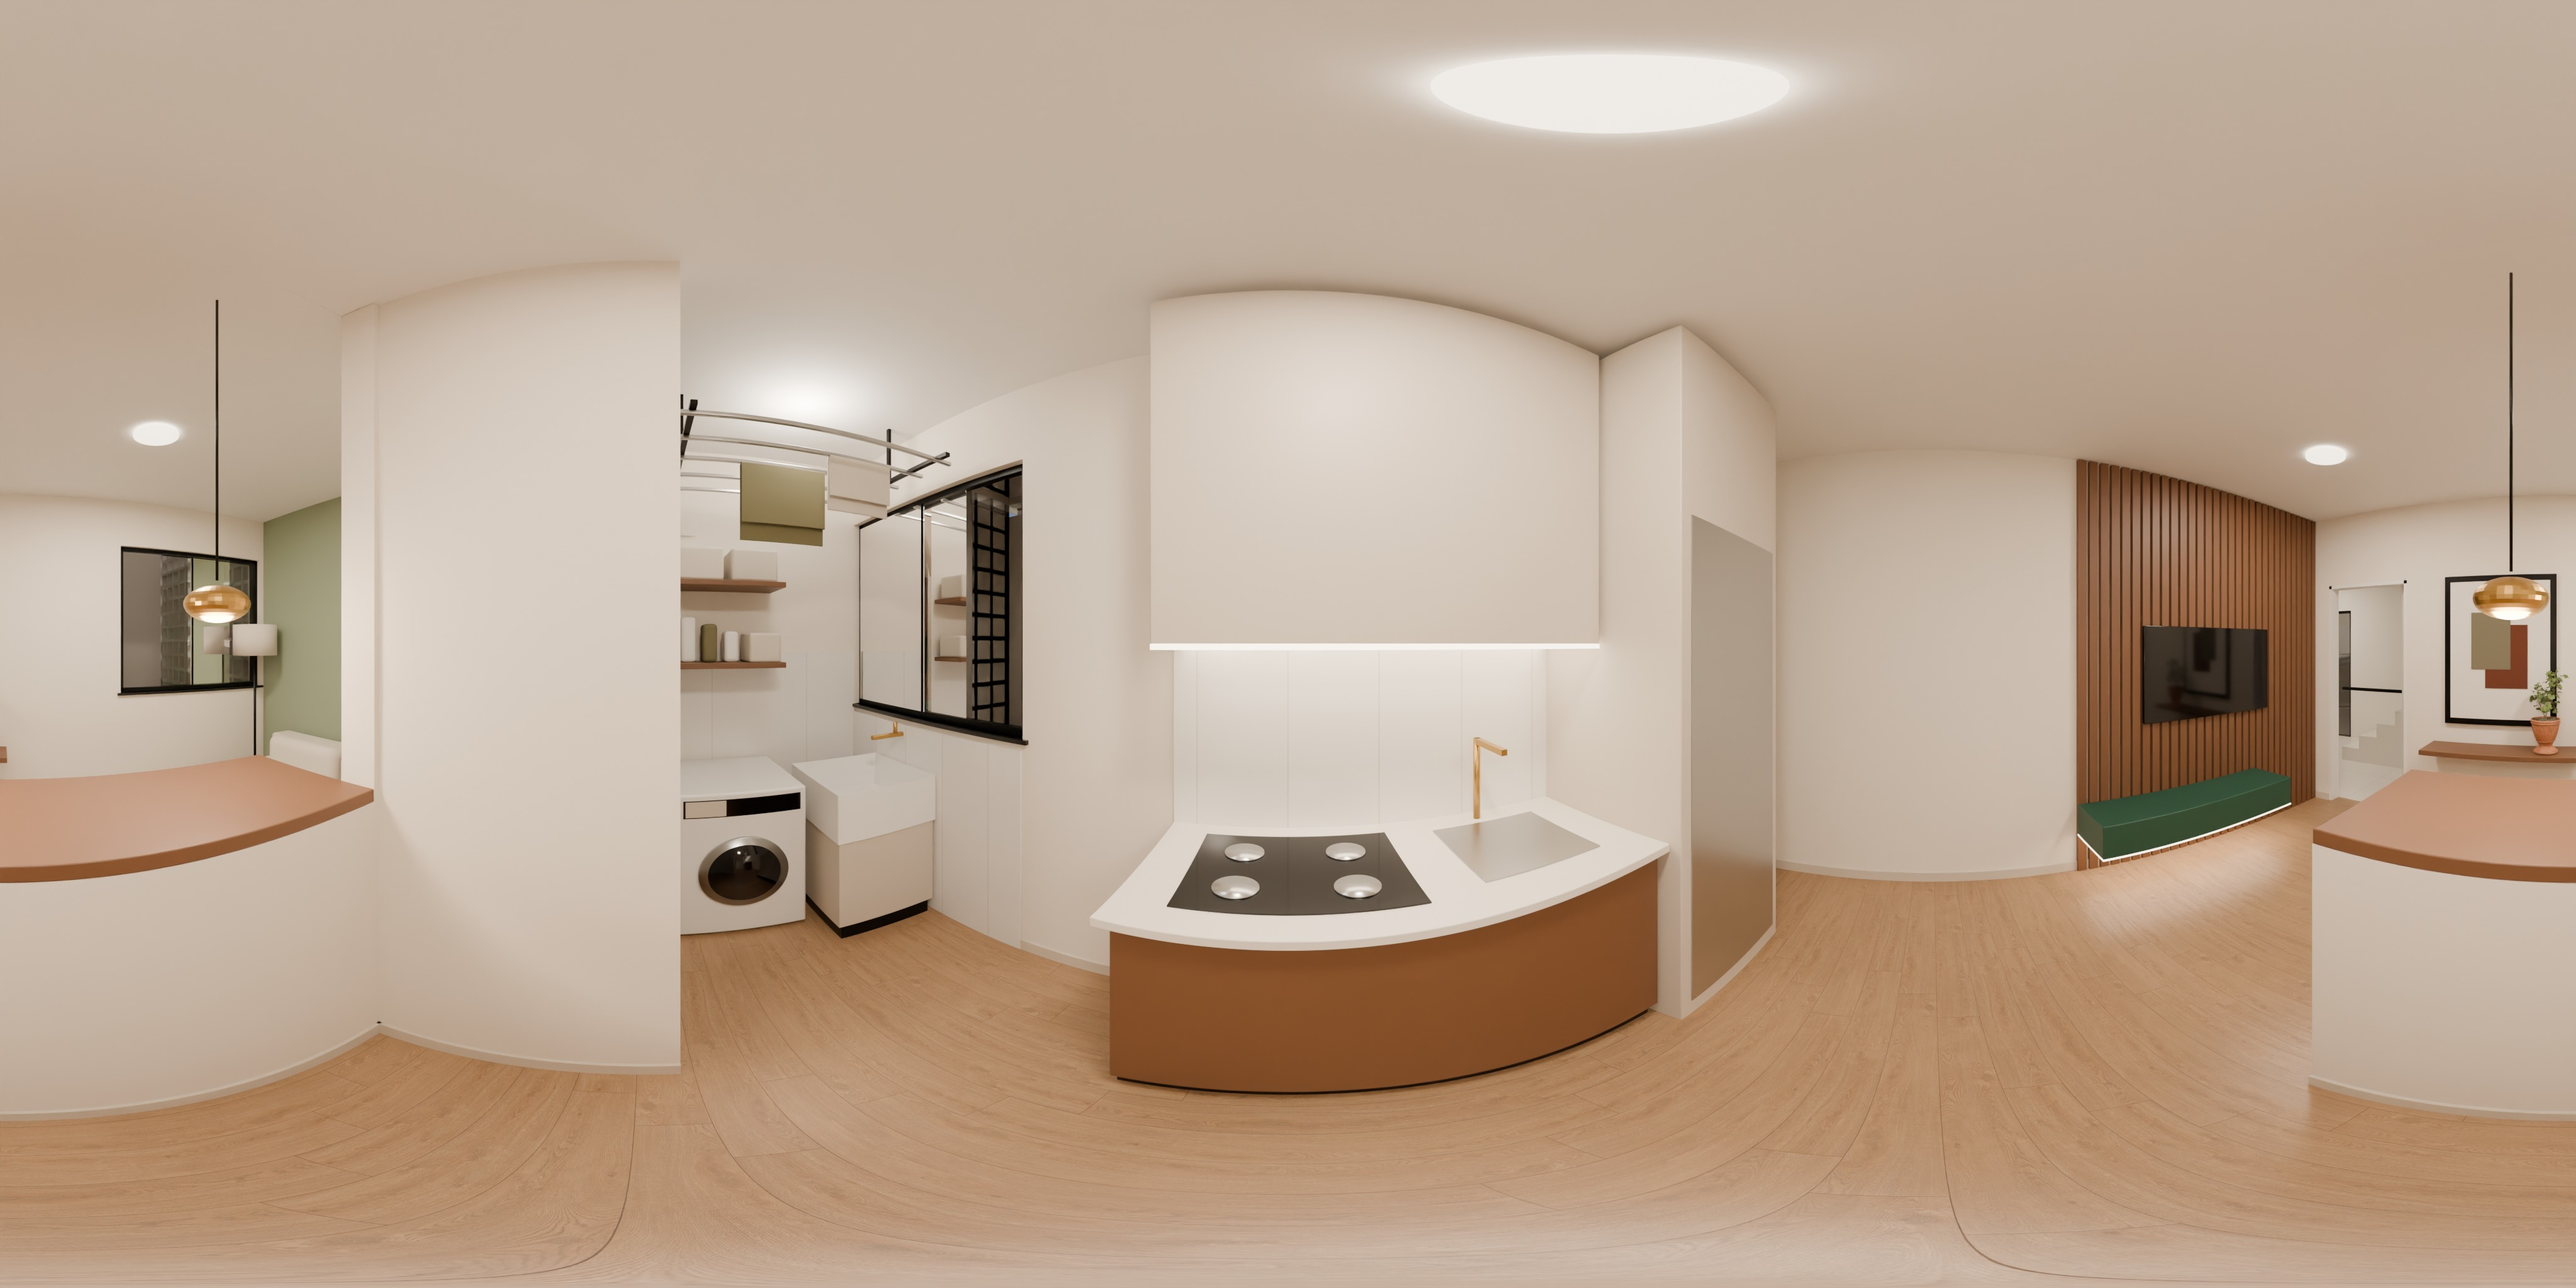
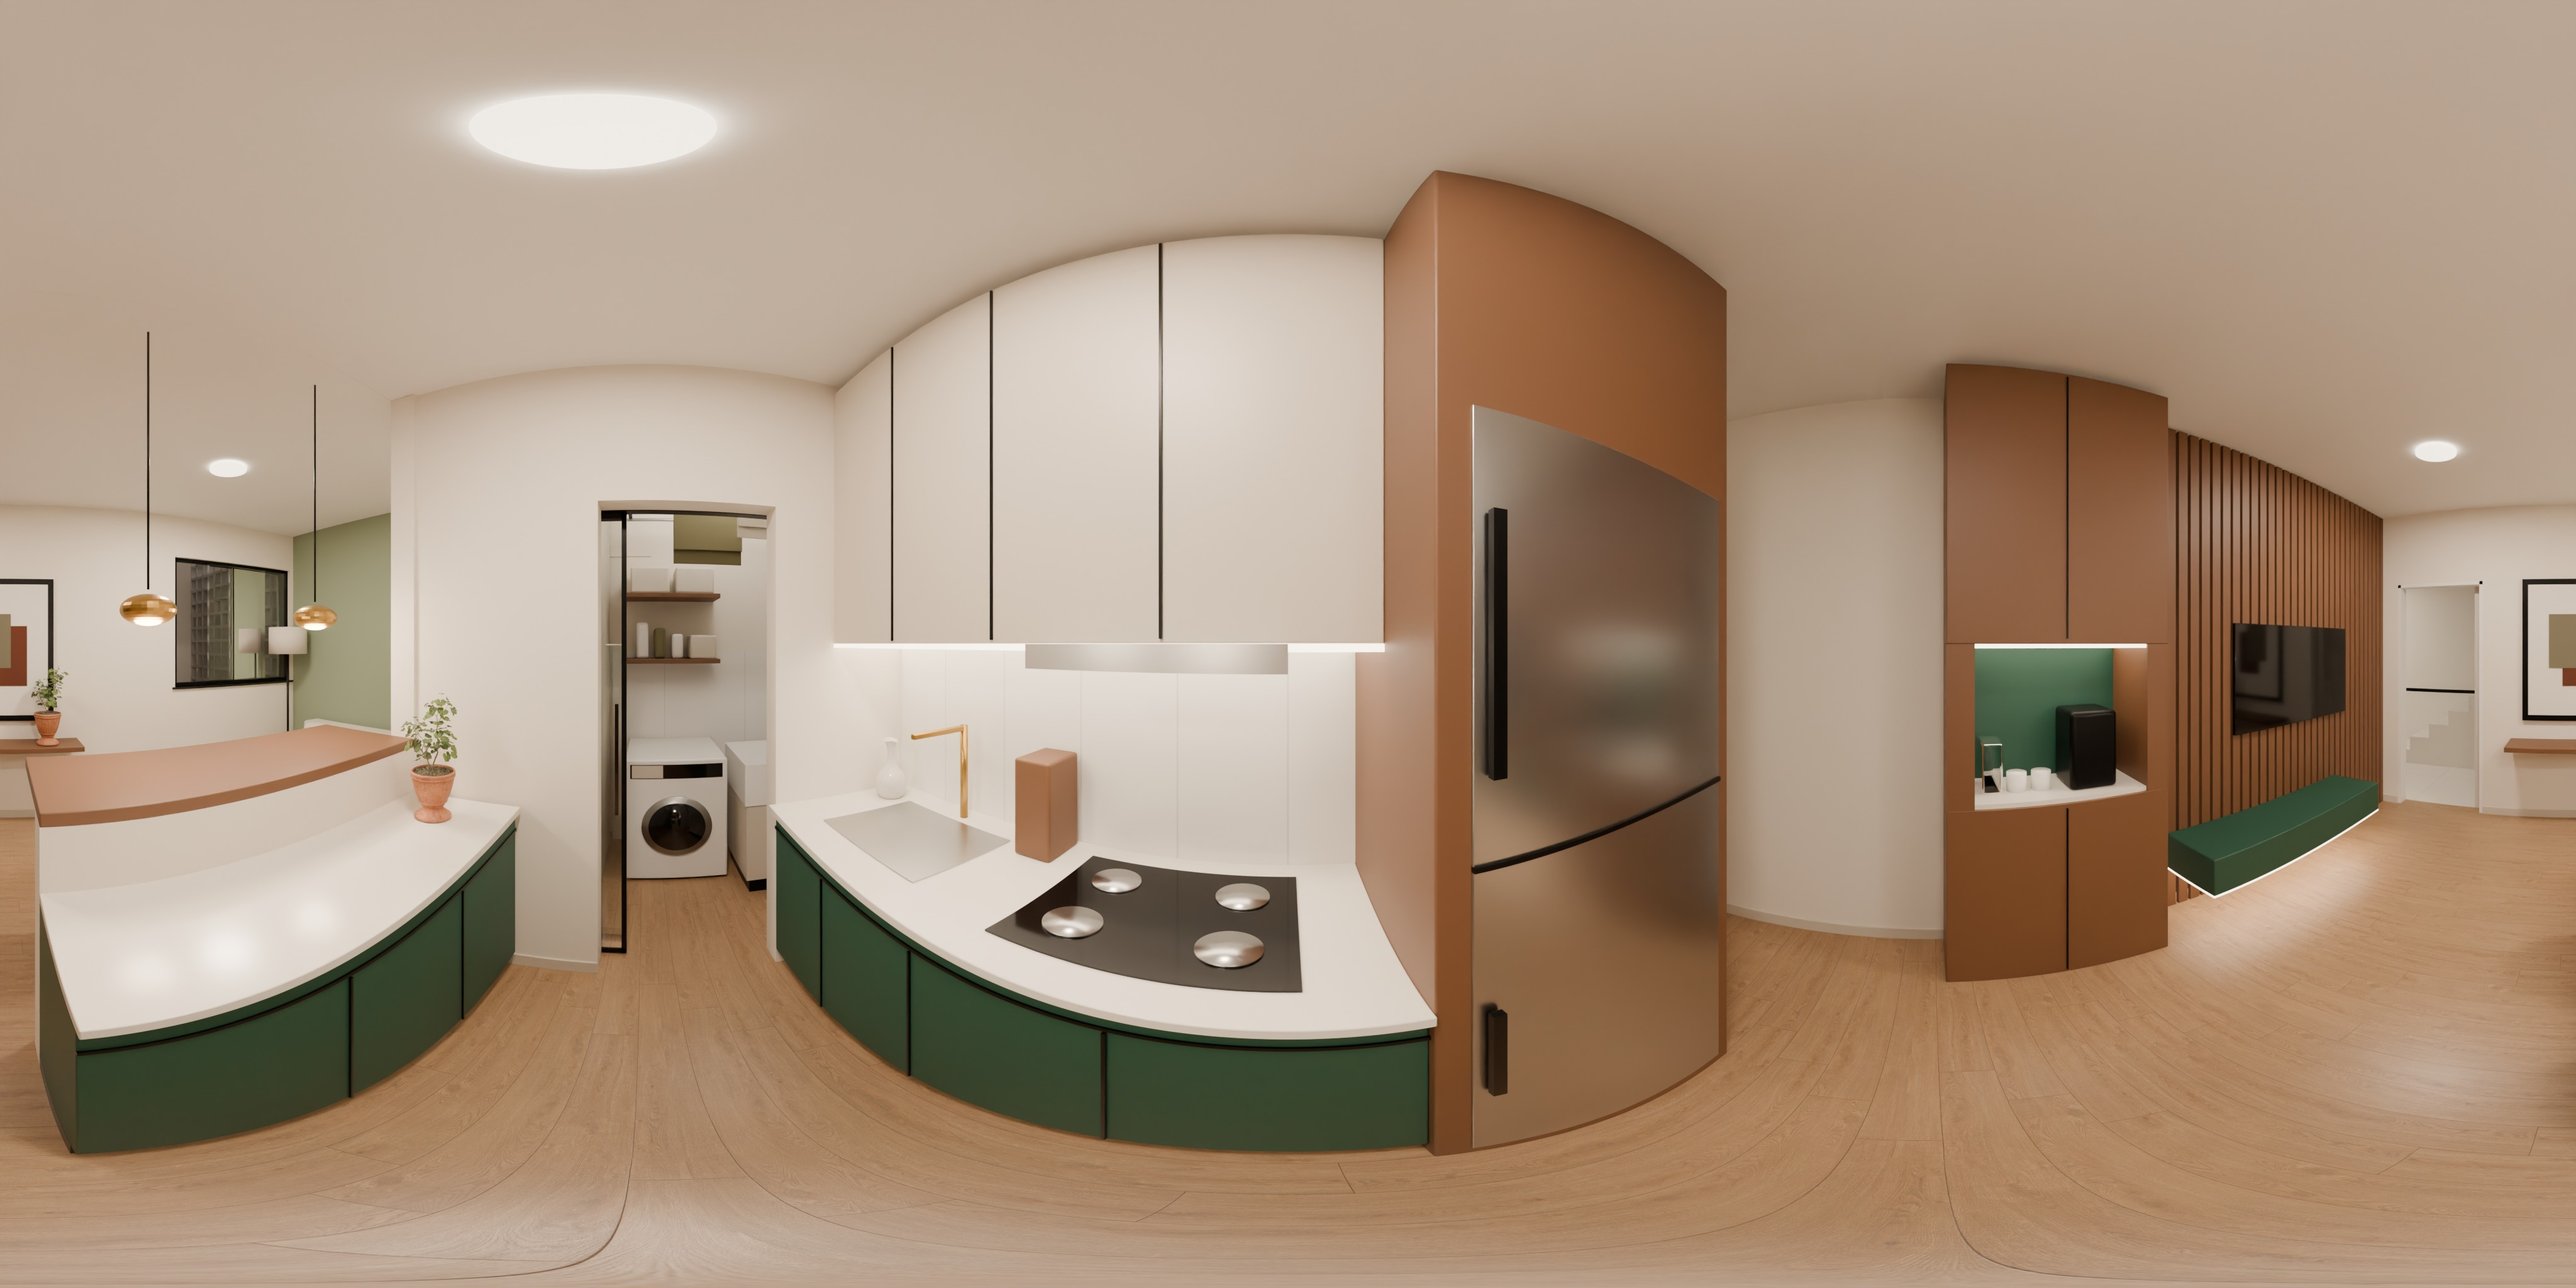
Tour 3D: cozinha nova do 3 quartos e lavanderia separada com 360 proprio

diff --git a/index.html b/index.html
@@ -139,8 +139,8 @@ const CENAS = {
   hall_andar:    {tipo:"predio", nome:"Hall dos andares", area:"1º e 2º andar", pano:"x_hall_andar", cam:[-0.72,5.9], olho:1.55, yaw:-90},
 
   q_sala:    {tipo:"q3", nome:"Sala", area:"11,47", pano:"3q_sala", x:[0,2.40], y:[0,4.78], cam:[1.10,3.30], yaw:-35},
-  q_cozinha: {tipo:"q3", nome:"Cozinha", area:"10,03", pano:"3q_cozinha", x:[2.52,4.55], y:[1.38,4.78], cam:[3.20,2.40], yaw:-90},
-  q_servico: {tipo:"q3", nome:"Área de serviço", area:"tanque e lava e seca", pano:"3q_lavanderia", x:[2.52,4.55], y:[0,1.38], cam:[3.80,2.05], yaw:-90},
+  q_cozinha: {tipo:"q3", nome:"Cozinha", area:"10,03", pano:"3q_cozinha", x:[2.52,4.55], y:[1.38,4.78], cam:[3.45,3.00], yaw:-90},
+  q_servico: {tipo:"q3", nome:"Área de serviço", area:"tanque e lava e seca", pano:"3q_lavanderia", x:[2.52,4.55], y:[0,1.38], cam:[3.62,1.00], yaw:-60},
   q_banheiro:{tipo:"q3", nome:"Banheiro", area:"3,39", pano:"3q_banheiro", x:[4.67,6.17], y:[1.50,3.76], cam:[5.60,3.10], yaw:-120},
   q_corredor:{tipo:"q3", nome:"Circulação", area:"5,73", pano:"3q_corredor", x:[4.67,11.04], y:[3.88,4.78], cam:[7.85,4.33], yaw:180},
   q_quarto3: {tipo:"q3", nome:"Quarto", area:"9,02", pano:"3q_quarto3", x:[6.29,8.69], y:[0,3.76], cam:[7.60,3.30], yaw:-150},
@@ -148,8 +148,8 @@ const CENAS = {
   q_quarto1: {tipo:"q3", nome:"Quarto do casal", area:"12,37", pano:"3q_quarto1", x:[12.04,14.44], y:[0,4.78], cam:[13.25,3.95], yaw:-150},
 
   t_sala:    {tipo:"terreo", nome:"Sala", area:"11,47", pano:"t_sala", x:[0,2.40], y:[0,4.78], cam:[1.10,3.30], yaw:-35},
-  t_cozinha: {tipo:"terreo", nome:"Cozinha", area:"10,03", pano:"t_cozinha", x:[2.52,4.55], y:[1.38,4.78], cam:[3.20,2.40], yaw:-90},
-  t_servico: {tipo:"terreo", nome:"Área de serviço", area:"tanque e lava e seca", pano:"t_lavanderia", x:[2.52,4.55], y:[0,1.38], cam:[3.80,2.05], yaw:-90},
+  t_cozinha: {tipo:"terreo", nome:"Cozinha", area:"10,03", pano:"t_cozinha", x:[2.52,4.55], y:[1.38,4.78], cam:[3.45,3.00], yaw:-90},
+  t_servico: {tipo:"terreo", nome:"Área de serviço", area:"tanque e lava e seca", pano:"t_lavanderia", x:[2.52,4.55], y:[0,1.38], cam:[3.62,1.00], yaw:-60},
   t_banheiro:{tipo:"terreo", nome:"Banheiro", area:"3,39", pano:"t_banheiro", x:[4.67,6.17], y:[1.50,3.76], cam:[5.60,3.10], yaw:-120},
   t_corredor:{tipo:"terreo", nome:"Circulação", area:"5,73", pano:"t_corredor", x:[4.67,11.04], y:[3.88,4.78], cam:[7.85,4.33], yaw:180},
   t_quarto3: {tipo:"terreo", nome:"Quarto", area:"9,02", pano:"t_quarto3", x:[6.29,8.69], y:[0,3.76], cam:[7.60,3.30], yaw:-60},
@@ -172,14 +172,14 @@ const PASSAGENS = {
   hall_andar:[["hall_terreo",[-1.90,3.4],"Descer",90],["q_sala",[-0.06,4.20],"Apto 201 · 301",0],["q_sala",[-0.06,5.56],"Apto 202 · 302",0],["d_sala",[-2.52,7.78],"Apto 203 · 303",180]],
 
   q_sala:[["q_cozinha",[2.46,3.70]],["hall_andar",[-0.06,4.20],"Sair para o hall",180]],
-  q_cozinha:[["q_sala",[2.46,3.70]],["q_corredor",[4.61,4.33]],["q_servico",[3.95,1.38],"Área de serviço",-90]],
-  q_servico:[["q_cozinha",[3.20,3.40],"Cozinha"],["q_sala",[2.46,3.70]],["q_corredor",[4.61,4.33]]],
+  q_cozinha:[["q_sala",[2.46,3.70]],["q_corredor",[4.61,4.33]],["q_servico",[3.62,1.44],"Área de serviço",-60]],
+  q_servico:[["q_cozinha",[3.62,1.44],"Cozinha",90]],
   q_corredor:[["q_cozinha",[4.61,4.33]],["q_banheiro",[5.70,3.82]],["q_quarto3",[6.75,3.82]],["q_quarto2",[9.26,3.82]],["q_quarto1",[10.98,4.33]]],
   q_banheiro:[["q_corredor",[5.70,3.82]]], q_quarto3:[["q_corredor",[6.75,3.82]]], q_quarto2:[["q_corredor",[9.26,3.82]]], q_quarto1:[["q_corredor",[10.98,4.33]]],
 
   t_sala:[["t_cozinha",[2.46,3.70]],["hall_terreo",[-0.06,4.20],"Sair para o hall",180]],
-  t_cozinha:[["t_sala",[2.46,3.70]],["t_corredor",[4.61,4.33]],["t_servico",[3.95,1.38],"Área de serviço",-90]],
-  t_servico:[["t_cozinha",[3.20,3.40],"Cozinha"],["t_sala",[2.46,3.70]],["t_corredor",[4.61,4.33]]],
+  t_cozinha:[["t_sala",[2.46,3.70]],["t_corredor",[4.61,4.33]],["t_servico",[3.62,1.44],"Área de serviço",-60]],
+  t_servico:[["t_cozinha",[3.62,1.44],"Cozinha",90]],
   t_corredor:[["t_cozinha",[4.61,4.33]],["t_banheiro",[5.70,3.82]],["t_quarto3",[6.75,3.82]],["t_quarto2",[9.26,3.82]],["t_quarto1",[10.98,4.33]]],
   t_banheiro:[["t_corredor",[5.70,3.82]]],
   t_quarto3:[["t_corredor",[6.75,3.82]],["t_patio",[8.69,0.69],"Pátio"]],
